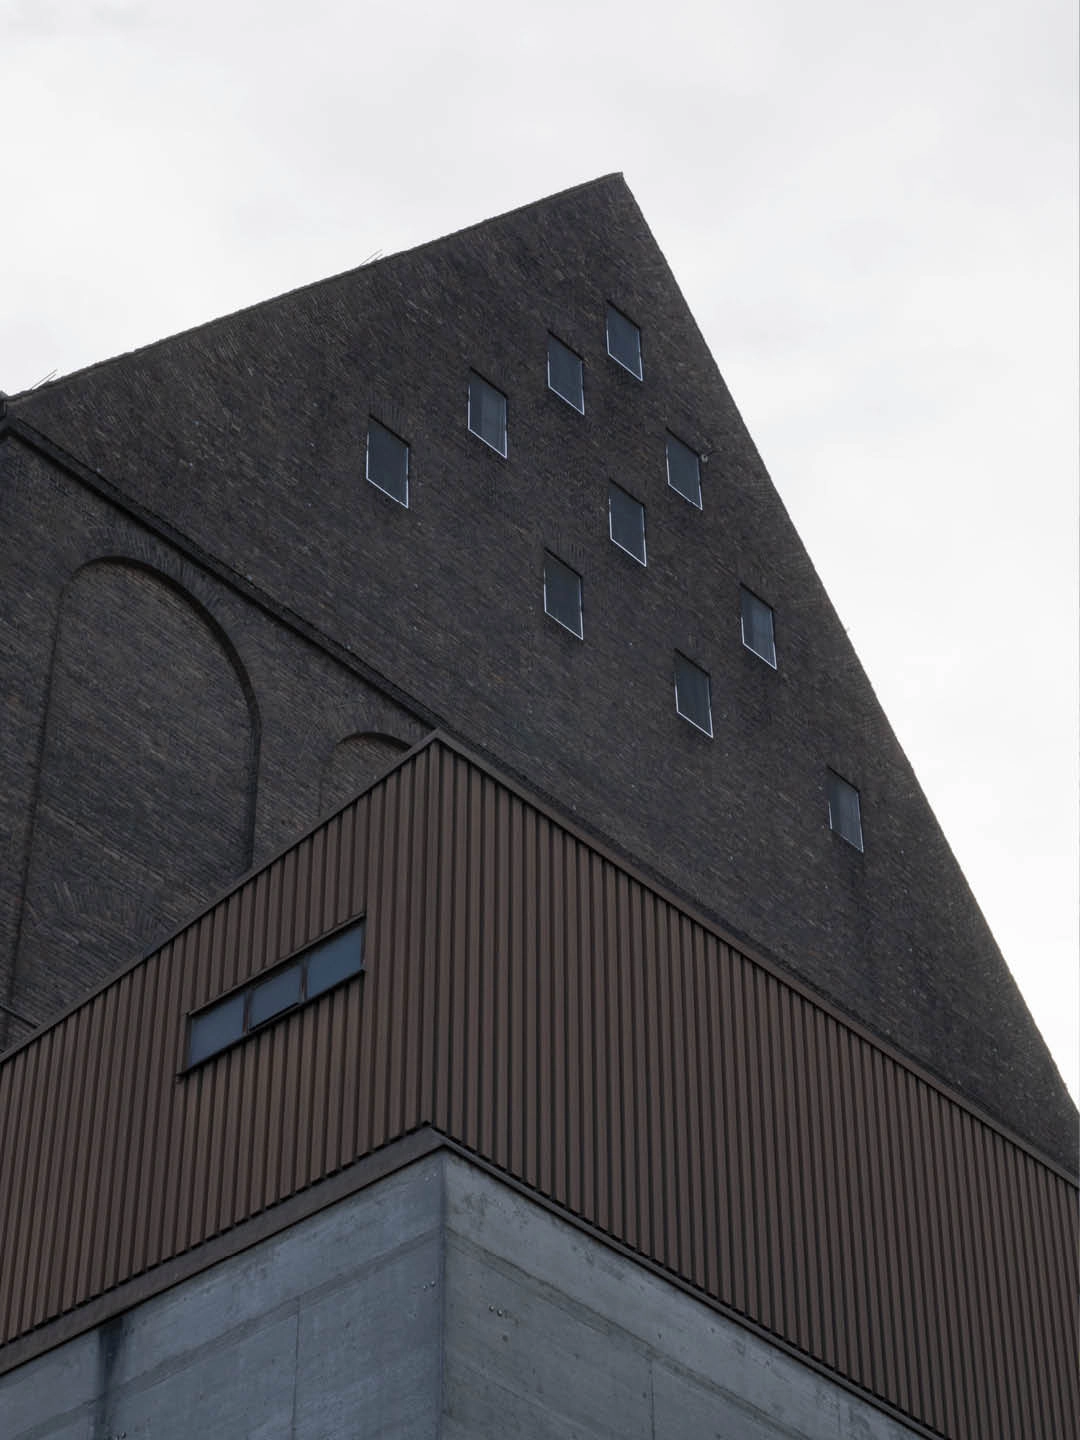
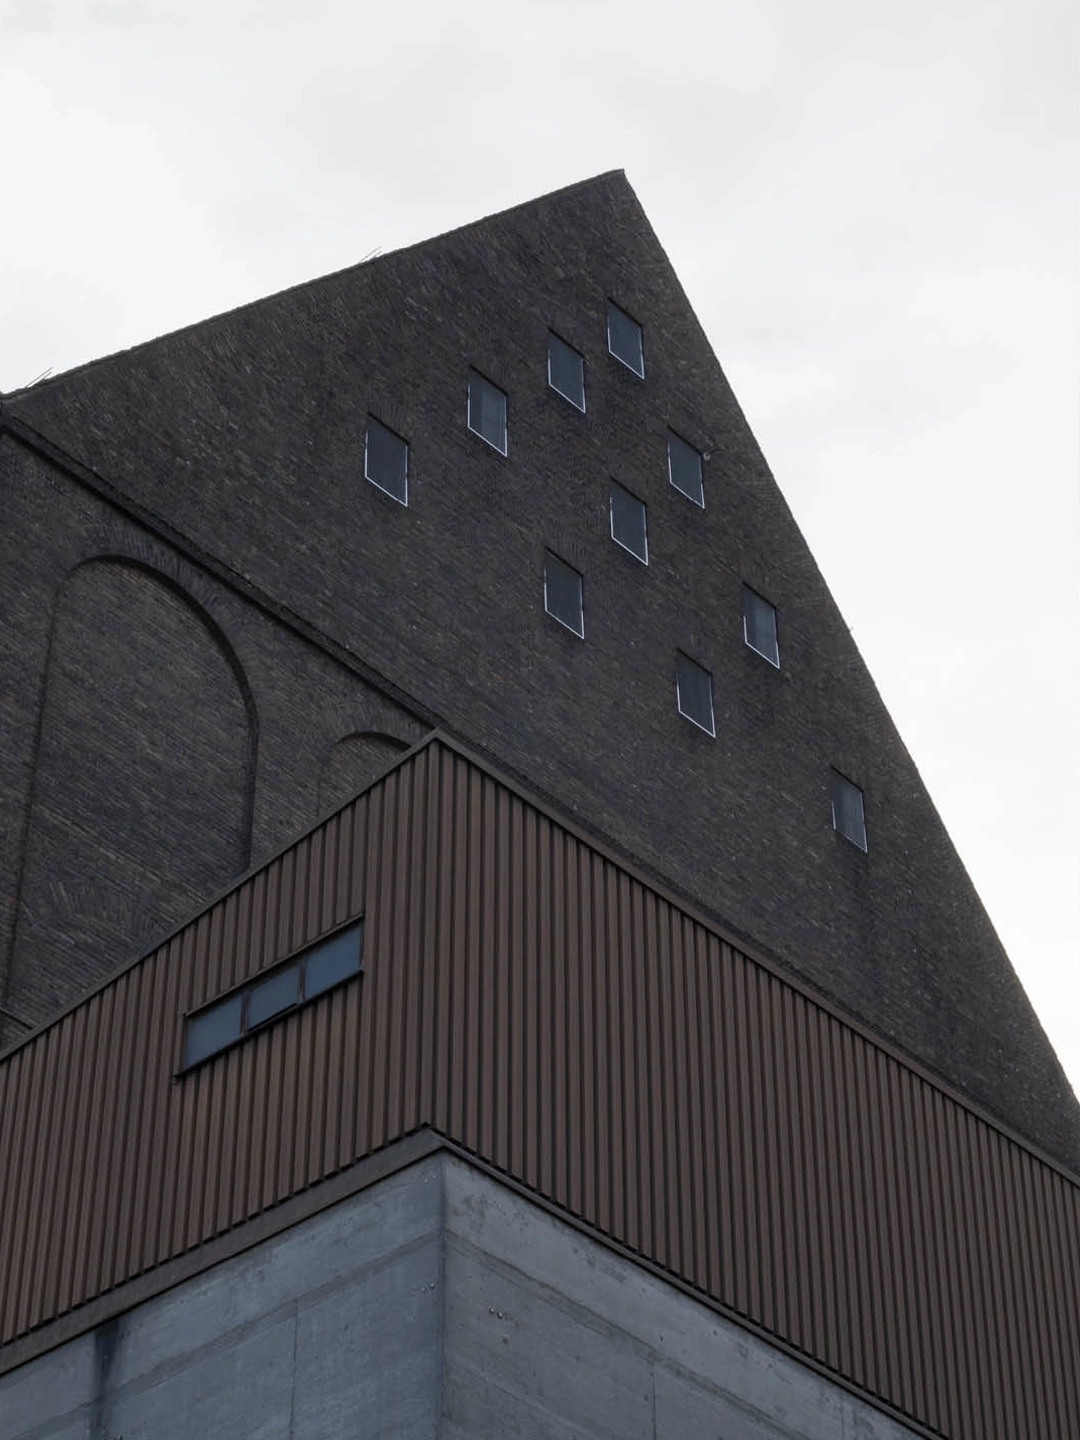
Feed View active

diff --git a/src/styles/global.css b/src/styles/global.css
@@ -1244,7 +1244,7 @@ strong,
 .feed-view__header {
   display: flex;
   align-items: center;
-  height: 66px;
+  height: 67px;
   box-sizing: border-box;
   padding: 2px var(--space-6);
   border-top: var(--line-width) solid var(--color-fg);
@@ -1304,7 +1304,7 @@ strong,
 @media (max-width: 1024px) {
   .feed-view__grid {
     grid-template-columns: repeat(2, 1fr);
-    gap: 0 var(--space-6);
+    gap: 0 var(--space-3);
   }
 }
 
